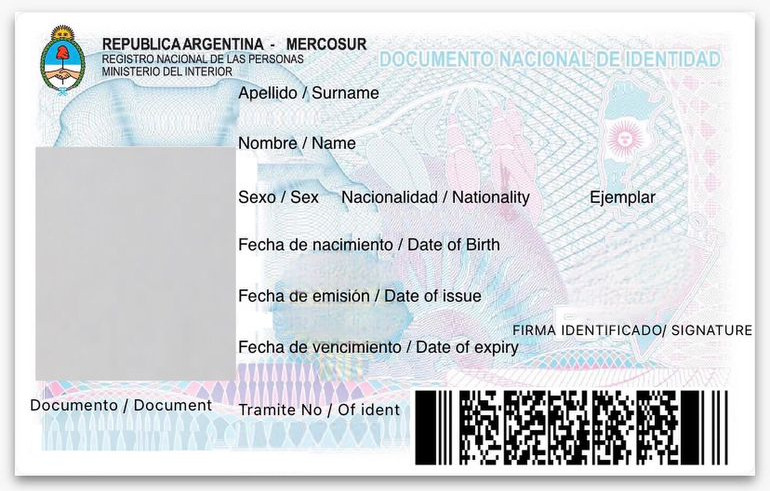
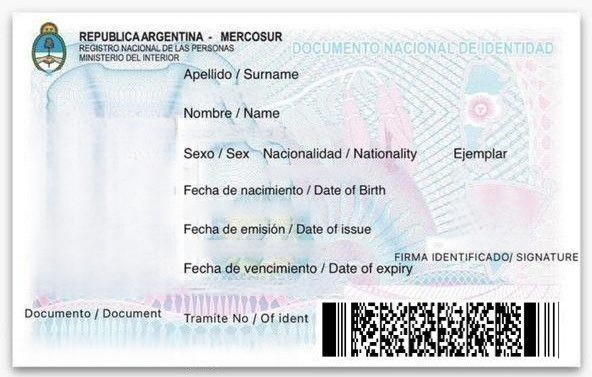
pusheando ashe

diff --git a/index.html b/index.html
@@ -3,31 +3,31 @@
 <head>
     <meta charset="UTF-8">
     <meta name="viewport" content="width=device-width, initial-scale=1.0">
-    <title>Mi argentina tocho</title>
-    <style>
-
+    <title>Formulario de DNI</title>
+    <link rel="stylesheet" href="https://use.typekit.net/hdq5bvf.css">    <style>
 @font-face {
-    font-family: 'NombreDeTuFuente'; 
-    src: url('CorporateSSCRegular.otf') format('opentype');
+  font-family: 'NombreDeTuFuente'; 
+  src: url('fuente.otf') format('opentype');
 }
 
 
         body {
-            text-rendering: optimizeSpeed;
-            font-family: sans-serif;
+            font-family: "roboto", sans-serif;
             margin: 0;
             display: flex;
             flex-direction: column;
             align-items: center;
             justify-content: center;
+            height: 100vh;
         }
 
         #dni-container {
-            position: relative;
-            width: 80vw; /* Ancho relativo al viewport */
-            max-width: 600px; /* Ancho máximo para mantener la legibilidad en pantallas grandes */
-            margin: 0 auto; /* Centrar el contenedor */
-        }
+    position: relative;
+    width: 400px; /* Tamaño fijo para la imagen */
+    height: auto; /* Altura automática para mantener la proporción */
+    margin: 0 auto; /* Centrar el contenedor */
+}
+
 
         #dni-image {
             width: 100%;
@@ -47,8 +47,8 @@
             padding: 20px;
             border-radius: 8px;
             box-shadow: 0 4px 8px rgba(0, 0, 0, 0.1);
-            position: relative; /* Asegura que el formulario se coloque correctamente sobre la imagen */
-            z-index: 1; /* Asegura que el formulario esté por encima de la imagen */
+            position: relative; /* Asegura que el formulario este bien sobre la imagen */
+            z-index: 1; /* Asegura que el formulario esté arriba de la imagen */
         }
 
         #dni-form label, #dni-form input, #dni-form button {
@@ -64,11 +64,11 @@
         <canvas id="datos-overlay"></canvas>
     </div>
     <form id="dni-form">
-        <label for="nombre">Nombre:</label>
-        <input placeholder="Juan" type="text" id="nombre" name="nombre" oninput="actualizarDatos()">
+        <label for="nombre">Apellido:</label>
+        <input placeholder="Gomes" type="text" id="nombre" name="nombre" oninput="actualizarDatos()">
 
-        <label for="apellido">Apellido:</label>
-        <input placeholder="Gomes" type="text" id="apellido" name="apellido" oninput="actualizarDatos()">
+        <label for="apellido">Nombre:</label>
+        <input placeholder="Juan" type="text" id="apellido" name="apellido" oninput="actualizarDatos()">
 
         <label for="sexo">Sexo: </label>
         <input placeholder="M / F" type="text" id="sexo" name="sexo" oninput="actualizarDatos()">
@@ -77,13 +77,13 @@
         <input placeholder="A/B/C" type="text" id="ejemplar" name="ejemplar" oninput="actualizarDatos()">
 
         <label for="nacimiento">Fecha de Nacimiento: </label>
-        <input placeholder="22 MAR/ MAR 2005 " type="text" id="nacimiento" name="nacimiento" oninput="actualizarDatos()">
+        <input value="22 MAR/ MAR 2005" type="text" id="nacimiento" name="nacimiento" oninput="actualizarDatos()">
 
         <label for="emision">Fecha de Emisión: </label>
-        <input placeholder="22 MAR/ MAR 2021 " type="text" id="emision" name="emision" oninput="actualizarDatos()">
+        <input value="22 MAR/ MAR 2021" type="text" id="emision" name="emision" oninput="actualizarDatos()">
 
         <label for="vencimiento">Fecha de Vencimiento: </label>
-        <input placeholder="22 MAR/ MAR 2028 " type="text" id="vencimiento" name="vencimiento" oninput="actualizarDatos()">
+        <input value="22 MAR/ MAR 2028" type="text" id="vencimiento" name="vencimiento" oninput="actualizarDatos()">
 
         <label for="tramite">Número Trámite: </label>
         <input placeholder="123456789123456" type="number" id="tramite" name="tramite" oninput="actualizarDatos()">
@@ -92,6 +92,9 @@
         <input placeholder="12.345.678" type="text" id="dni" name="dni" oninput="actualizarDatos()">
     </form>
     <script>
+
+
+
 function actualizarDatos() {
     var apellido = document.getElementById('apellido').value.toUpperCase();
     var nombre = document.getElementById('nombre').value.toUpperCase();
@@ -102,42 +105,93 @@ function actualizarDatos() {
     var vencimiento = document.getElementById('vencimiento').value.toUpperCase();
     var tramite = document.getElementById('tramite').value.toUpperCase();
     var dni = document.getElementById('dni').value.toUpperCase();
+    var nacionalidad = "ARGENTINA";
 
-    // Obtener el canvas y su contexto
+    // conseguir  canvas y su contexto
     var canvas = document.getElementById('datos-overlay');
     var imagen = document.getElementById('dni-image');
     canvas.width = imagen.width;
     canvas.height = imagen.height;
     var contexto = canvas.getContext('2d');
 
-    // Limpiar el canvas
+    // Limpiar  canvas
     contexto.clearRect(0, 0, canvas.width, canvas.height);
 
     // Tamaño de fuente relativo al ancho de la imagen
-    var fontSize = imagen.width * 0.03;
-    contexto.font =  fontSize + 'px NombreDeTuFuente';
+    var fontSize = 12; // Tamaño de la fuente deseado, puedes ajustarlo
+
     contexto.fillStyle = 'black';
-    contexto.fontWeight = 'bold';
+    contexto.font = fontSize + 'px fira-mono, Arial';
+    
+
     // Coordenadas proporcionales al tamaño de la imagen
-    var xNombre = imagen.width * 0.315;
-    var yNombre = imagen.height * 0.36;
 
-    var xApellido = imagen.width * 0.315;
-    var yApellido = imagen.height * 0.26;
+    var xNombre = imagen.width * 0.31;
+    var yNombre = imagen.height * 0.265;
 
-    var xsexo = imagen.width * 0.315;
+    var xApellido = imagen.width * 0.31;
+    var yApellido = imagen.height * 0.365;
+
+    var xsexo = imagen.width * 0.31;
     var ysexo = imagen.height * 0.47;
 
-    // Otras coordenadas según necesites
-    // ...
+    var xnacionalidad = imagen.width * 0.448;
+    var ynacionalidad = imagen.height * 0.47;
+
+    var xejemplar = imagen.width * 0.765;
+    var yejemplar = imagen.height * 0.47;
+
+    var xnacimiento = imagen.width * 0.31;
+    var ynacimiento = imagen.height * 0.568;
+
+    var xemision = imagen.width * 0.31;
+    var yemision = imagen.height * 0.67;
+
+    var xvencimiento = imagen.width * 0.31;
+    var yvencimiento = imagen.height * 0.777;
+
+    var xtramite = imagen.width * 0.31;
+    var ytramite = imagen.height * 0.9;
+
+    var xdni = imagen.width * 0.04;
+    var ydni = imagen.height * .92;
 
     // Dibujar los datos en el canvas
     contexto.fillText(nombre, xNombre, yNombre);
     contexto.fillText(apellido, xApellido, yApellido);
     contexto.fillText(sexo, xsexo, ysexo);
+    contexto.fillText(nacionalidad, xnacionalidad, ynacionalidad);
+    contexto.fillText(ejemplar, xejemplar, yejemplar);
+    contexto.fillText(nacimiento, xnacimiento, ynacimiento);
+    contexto.fillText(emision, xemision, yemision);
+    contexto.fillText(vencimiento, xvencimiento, yvencimiento);
 
-    // Otros datos
-}
+
+
+    if (tramite.length > 11) {
+        var tramo1 = tramite.substring(0, 11);
+        var tramo2 = tramite.substring(11);
+
+        // Obtener la longitud de la primera parte del trámite
+        var longitudTramo1 = contexto.measureText(tramo1).width;
+
+        // Si la longitud de la segunda parte del trámite supera cierto valor, ajustar la posición vertical
+        if (contexto.measureText(tramo2).width > imagen.width * 0.4) {
+            ytramite += fontSize * 1.5; // Ajustar la posición verticalmente
+        }
+
+        contexto.fillText(tramo1, xtramite, ytramite); // Dibuja la primera parte del trámite
+        contexto.fillText(tramo2, xtramite, ytramite + fontSize); // Dibuja la segunda parte del trámite abajo
+    } else {
+        contexto.fillText(tramite, xtramite, ytramite); // Si no supera los 11 caracteres, dibuja el trámite normalmente
+    }
+
+    // Configurar fuente en negrita solo para el número de DNI
+    contexto.font = 'bold ' + 16 + 'px fira-mono, Arial';
+    contexto.fillText(dni, xdni, ydni);
+ }
+
+
 
     </script>
 </body>
